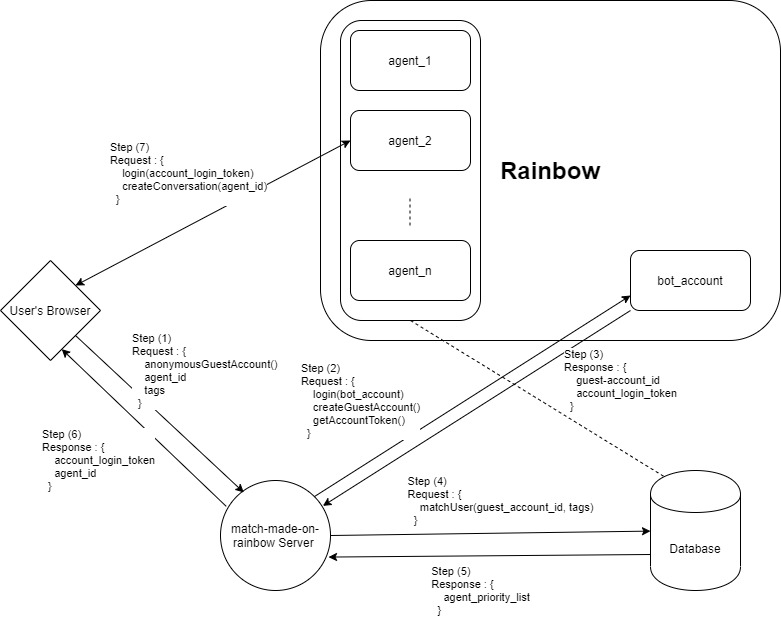
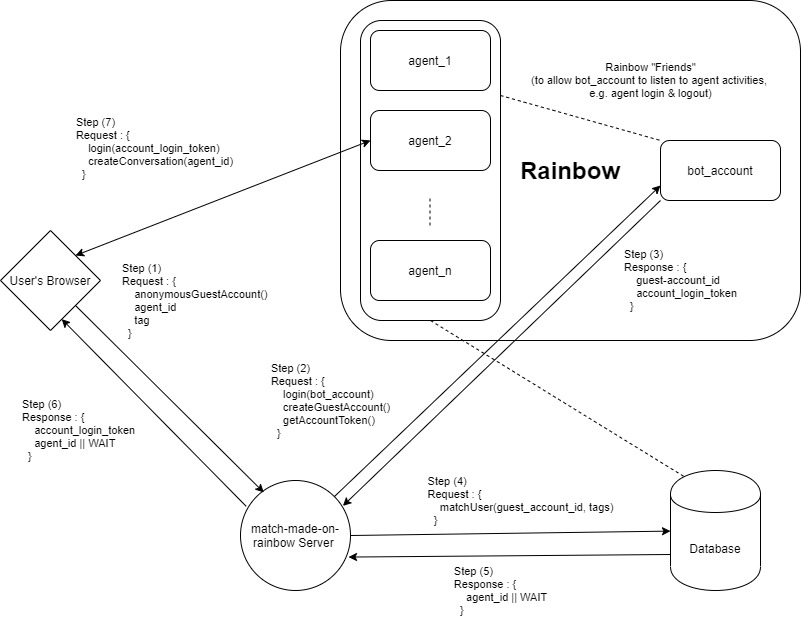
updated overview

diff --git a/README.md b/README.md
@@ -2,8 +2,8 @@
 A match making engine that routes a User's chat and audio request to the appropriate Agent. Built using Rainbow API and NodeJS.
 
 ## How to Test
-- As User:
-You may test it yourself by going to this website: https://match-made-on-rainbow.herokuapp.com/
+###- As User:
+You may test it yourself by going to this website: https://match-made-on-rainbow.herokuapp.com/.
 You MUST log in as the 3 Rainbow Agent sandbox accounts as well! Otherwise, there won't be anyone (likely) to which your User will be routed to.
 
 The following are the 3 Rainbow Agent account details:
@@ -14,23 +14,23 @@ The following are the 3 Rainbow Agent account details:
 |testb@gmail.com   | 1234Qwer! | Back            |
 |testgp@gmail.com  | 1234Qwer! | General Enquiry |
 
-- As Agent:
+###- As Agent:
 Simply login as Rainbow Agents using the details stated in the table above.
-Visit this website to login as Rainbow Agents: https://web-sandbox.openrainbow.com/app/1.69.3/index.html#/login
+Visit this website to login as Rainbow Agents: https://web-sandbox.openrainbow.com/app/1.69.3/index.html#/login.
 
-- As Admin
+###- As Admin:
 git clone `master` branch, in the cloned folder, simply call `npm run test`.
 This will simulatenously run the junit white box test, blackbox test and system tests.
 The report will be printed out in the console, once each tests are completed.
 
 ## Overview
 The application follows a seven-step process to connect a User to an appropriate Agent
-1. The User arrives in the web page, specifies his `tags` and requests to be connected to an Agent
-2. The server receives this request, logins as Rainbow Bot Account and requests for an `Anonymous Guest Account`
-3. Rainbow server creates an `Anonymous Guest Account` for the User and returns a `login token`
-5. match-made-on-rainbow server performs an algorithm on the `tags` and list of Agents to find matches and returns a `Agent Priority List` before returning to User
-6. User receives a `login token` and an `agent_id` to contact
-7. User logins as `Anonymous Guest` and creates a `Conversation` with the designated Agent using Rainbow API
+1. The User arrives in the web page, specifies his `tags` and requests to be connected to an Agent.
+2. The server receives this request and requests for an `Anonymous Guest Account` on behalf of User.
+3. Rainbow server creates an `Anonymous Guest Account` for the User and returns a `login_token`.
+5. match-made-on-rainbow server performs an algorithm on the `tags` and list of Agents to find matches and returns an `agent_id` before returning to User.
+6. User receives the `login_token` and the `agent_id` which indicate which Agent the User should contact.
+7. User's browser logins as `Anonymous Guest` using `login_token` and creates a `Conversation` with the designated Agent using Rainbow API
 
 The following image summarizes the seven-step process:
 
